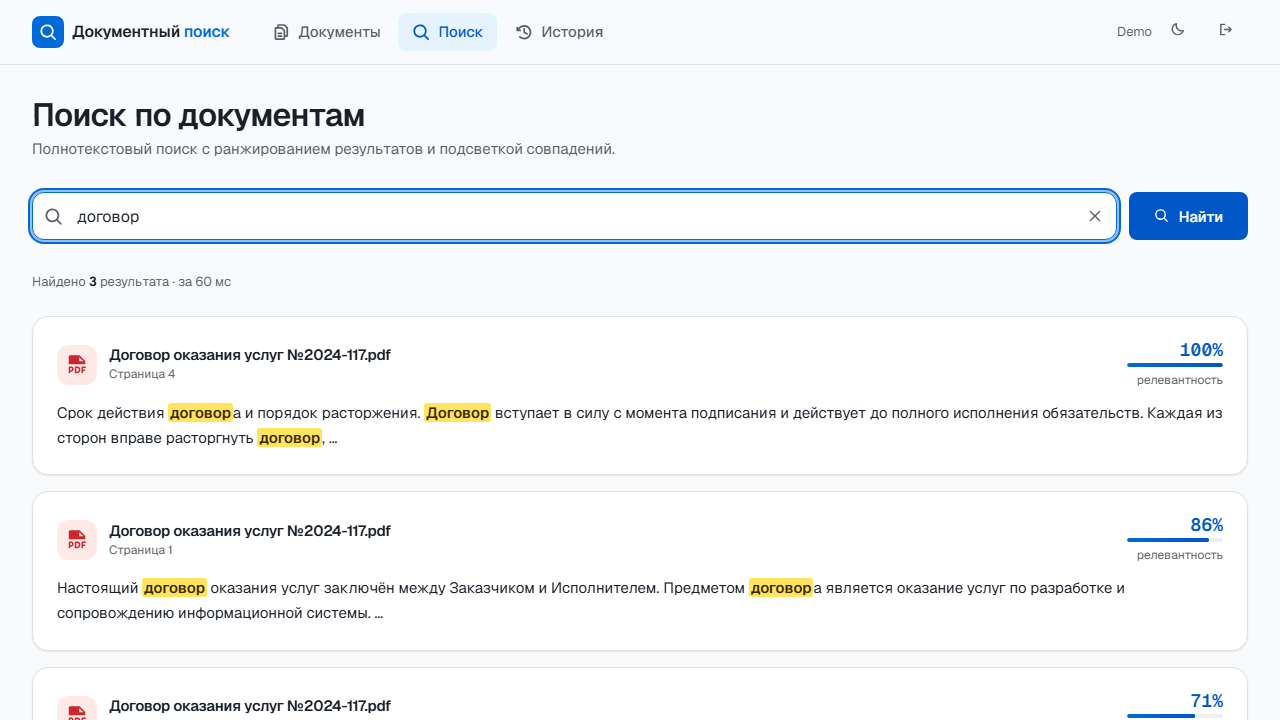
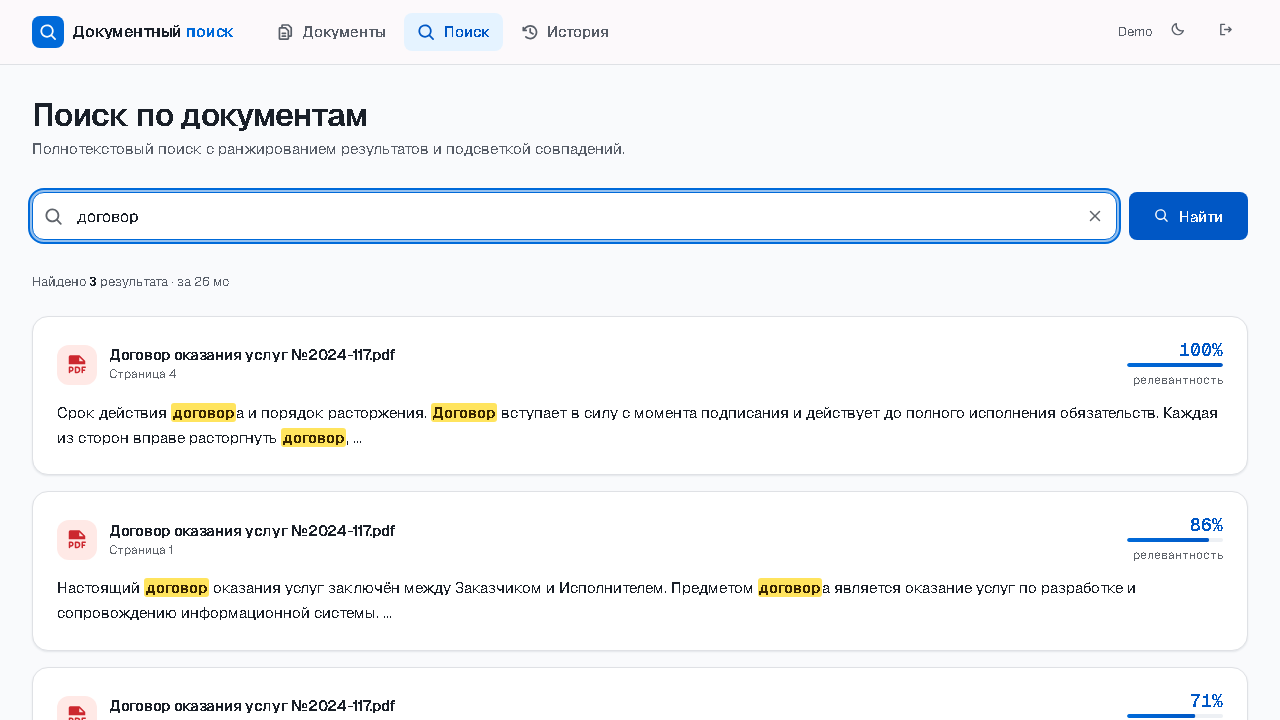
add grafana and prometheus

diff --git a/backend/app/core/config.py b/backend/app/core/config.py
@@ -2,19 +2,46 @@ from pydantic_settings import BaseSettings
 
 
 class Settings(BaseSettings):
+    # Приложение
     APP_NAME: str = "Intelligent Search System"
     APP_VERSION: str = "1.0.0"
 
+    # PostgreSQL
+    POSTGRES_USER: str
+    POSTGRES_PASSWORD: str
+    POSTGRES_DB: str
+    POSTGRES_HOST: str
+    POSTGRES_PORT: int
+
+    # Redis
+    REDIS_HOST: str
+    REDIS_PORT: int
+    REDIS_TTL: int = 300
+
+    # Elasticsearch
     ELASTICSEARCH_HOST: str = "localhost"
     ELASTICSEARCH_PORT: int = 9200
 
+    # Backend
+    BACKEND_HOST: str = "0.0.0.0"
+    BACKEND_PORT: int = 8000
     MAX_FILE_SIZE_MB: int = 20
+
+    # Frontend
+    VITE_API_BASE_URL: str = "http://localhost/api"
+
+    # Grafana
+    GRAFANA_USER: str = "admin"
+    GRAFANA_PASSWORD: str = "admin123"
+
+    # Индексация
     CHUNK_SIZE: int = 1000
     CHUNK_OVERLAP: int = 100
 
     class Config:
         env_file = ".env"
         env_file_encoding = "utf-8"
+        extra = "ignore"
 
 
 settings = Settings()

diff --git a/tests/test_e2e_search.py b/tests/test_e2e_search.py
@@ -2,7 +2,10 @@ import pytest
 import os
 from playwright.sync_api import sync_playwright
 
-BASE_URL = "http://localhost:5173"  
+
+BASE_URL = os.getenv("BASE_URL", "http://localhost:5173")
+
+
 FIXTURES_DIR = os.path.join(os.path.dirname(__file__), 'fixtures')
 
 
@@ -10,7 +13,7 @@ FIXTURES_DIR = os.path.join(os.path.dirname(__file__), 'fixtures')
 def browser():
     """Запускаем браузер один раз для всех тестов."""
     with sync_playwright() as p:
-        browser = p.chromium.launch(headless=True)  
+        browser = p.chromium.launch(headless=True)
         yield browser
         browser.close()
 
@@ -30,7 +33,7 @@ def test_full_user_scenario(browser):
     page.goto(f"{BASE_URL}/login")
     page.wait_for_selector("text=Вход в систему", timeout=30000)
 
-    page.fill('#login', 'demo') 
+    page.fill('#login', 'demo')
     page.fill('#password', 'demo')
 
     page.click('button:has-text("Войти")')
@@ -48,7 +51,7 @@ def test_full_user_scenario(browser):
     page.wait_for_selector("text=Поиск по документам", timeout=30000)
 
     search_input = page.get_by_placeholder("Введите запрос, например: договор оплата")
-    search_input.fill("договор")  
+    search_input.fill("договор")
 
     page.click('button:has-text("Найти")')
 

diff --git a/backend/app/main.py b/backend/app/main.py
@@ -1,9 +1,8 @@
 from contextlib import asynccontextmanager
 from fastapi import FastAPI
 from fastapi.middleware.cors import CORSMiddleware
-from contextlib import asynccontextmanager
 import time
-
+from fastapi.responses import PlainTextResponse
 from app.api.upload import router as upload_router
 from app.api.search import router as search_router
 from app.services.index_service import create_index

diff --git a/tests/test_parsers.py b/tests/test_parsers.py
@@ -38,7 +38,7 @@ def test_parse_pdf_corrupted():
     file_path = os.path.join(FIXTURES_DIR, 'broken_manual.pdf')
     with open(file_path, 'rb') as f:
         content = f.read()
-    with pytest.raises(ValueError, match="Не удалось извлечь текст"):
+    with pytest.raises(ValueError, match="Ошибка при парсинге PDF"):
         parse_pdf(content, 'broken_manual.pdf')
 
 